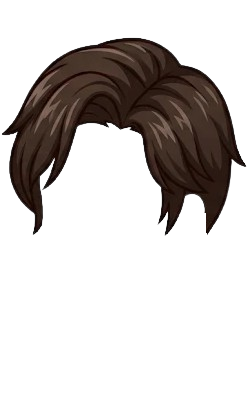
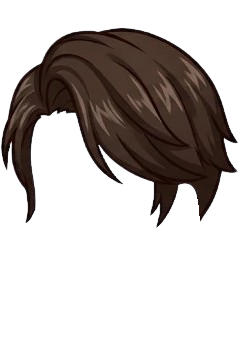
hair1

Changed region(s): [[0.0, 0.0592, 1.0, 0.6805], [0.6708, 0.4142, 0.7, 0.4438]]

diff --git a/src/config/avatarItemsConfig.js b/src/config/avatarItemsConfig.js
@@ -11,11 +11,7 @@ export const MODULAR_SHEET_FILES = {
   hair_brown_parted_front: './assets/characters/male/hair/brown_parted/front.png',
   hair_brown_parted_left:  './assets/characters/male/hair/brown_parted/left.png',
   hair_brown_parted_right: './assets/characters/male/hair/brown_parted/right.png',
-  hair_brown_parted_back:  './assets/characters/male/hair/brown_parted/back.png',
-  hair_brown_twoblock_front: './assets/characters/male/hair/brown_twoblock/front.png',
-  hair_brown_twoblock_left:  './assets/characters/male/hair/brown_twoblock/left.png',
-  hair_brown_twoblock_right: './assets/characters/male/hair/brown_twoblock/right.png',
-  hair_brown_twoblock_back:  './assets/characters/male/hair/brown_twoblock/back.png'
+  hair_brown_parted_back:  './assets/characters/male/hair/brown_parted/back.png'
 };
 
 export const HAIR_4WAY_STYLES = {
@@ -34,23 +30,6 @@ export const HAIR_4WAY_STYLES = {
       left:  { w: 166, ox: 2,  oy: -14 },
       right: { w: 166, ox: -2, oy: -14 },
       up:    { w: 170, ox: 0,  oy: -7 }
-    }
-  },
-  brown_twoblock: {
-    id: 'brown_twoblock',
-    name: 'ผมแสกกลางน้ำตาล (ทรงใหม่)',
-    gender: 'male',
-    sheets: {
-      down:  'hair_brown_twoblock_front',
-      left:  'hair_brown_twoblock_left',
-      right: 'hair_brown_twoblock_right',
-      up:    'hair_brown_twoblock_back'
-    },
-    offsets: {
-      down:  { w: 169, ox: -4,  oy: -16 },
-      left:  { w: 172, ox: 2,   oy: -37 },
-      right: { w: 172, ox: -8,  oy: -35 },
-      up:    { w: 170, ox: 0,   oy: 3 }
     }
   }
 };
